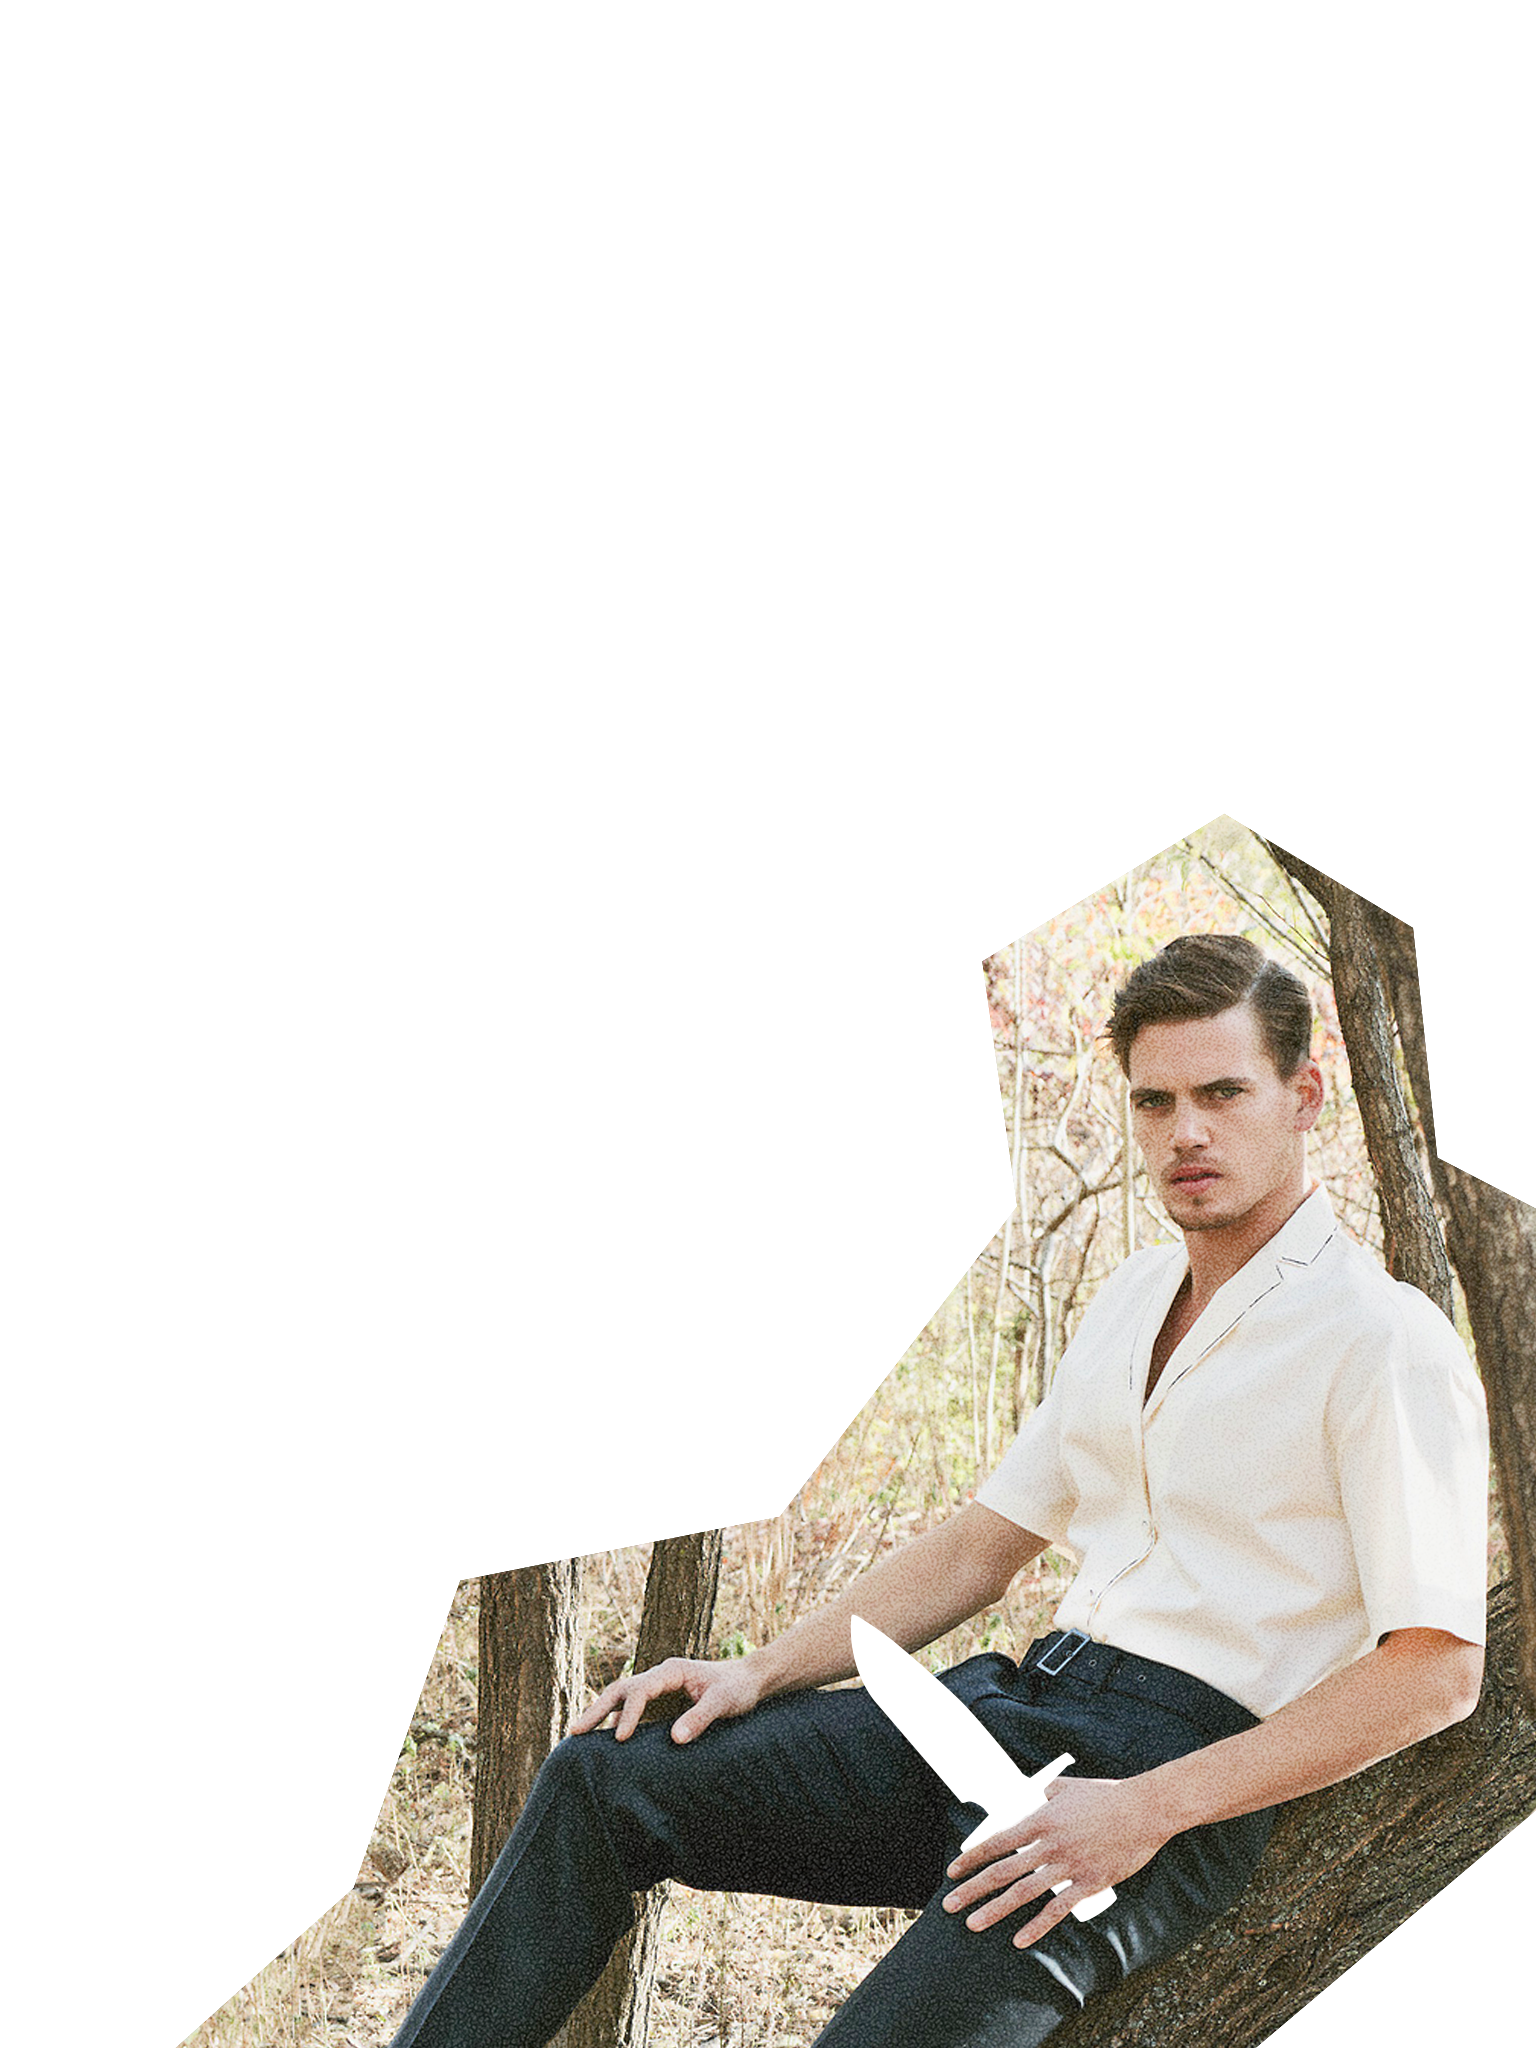
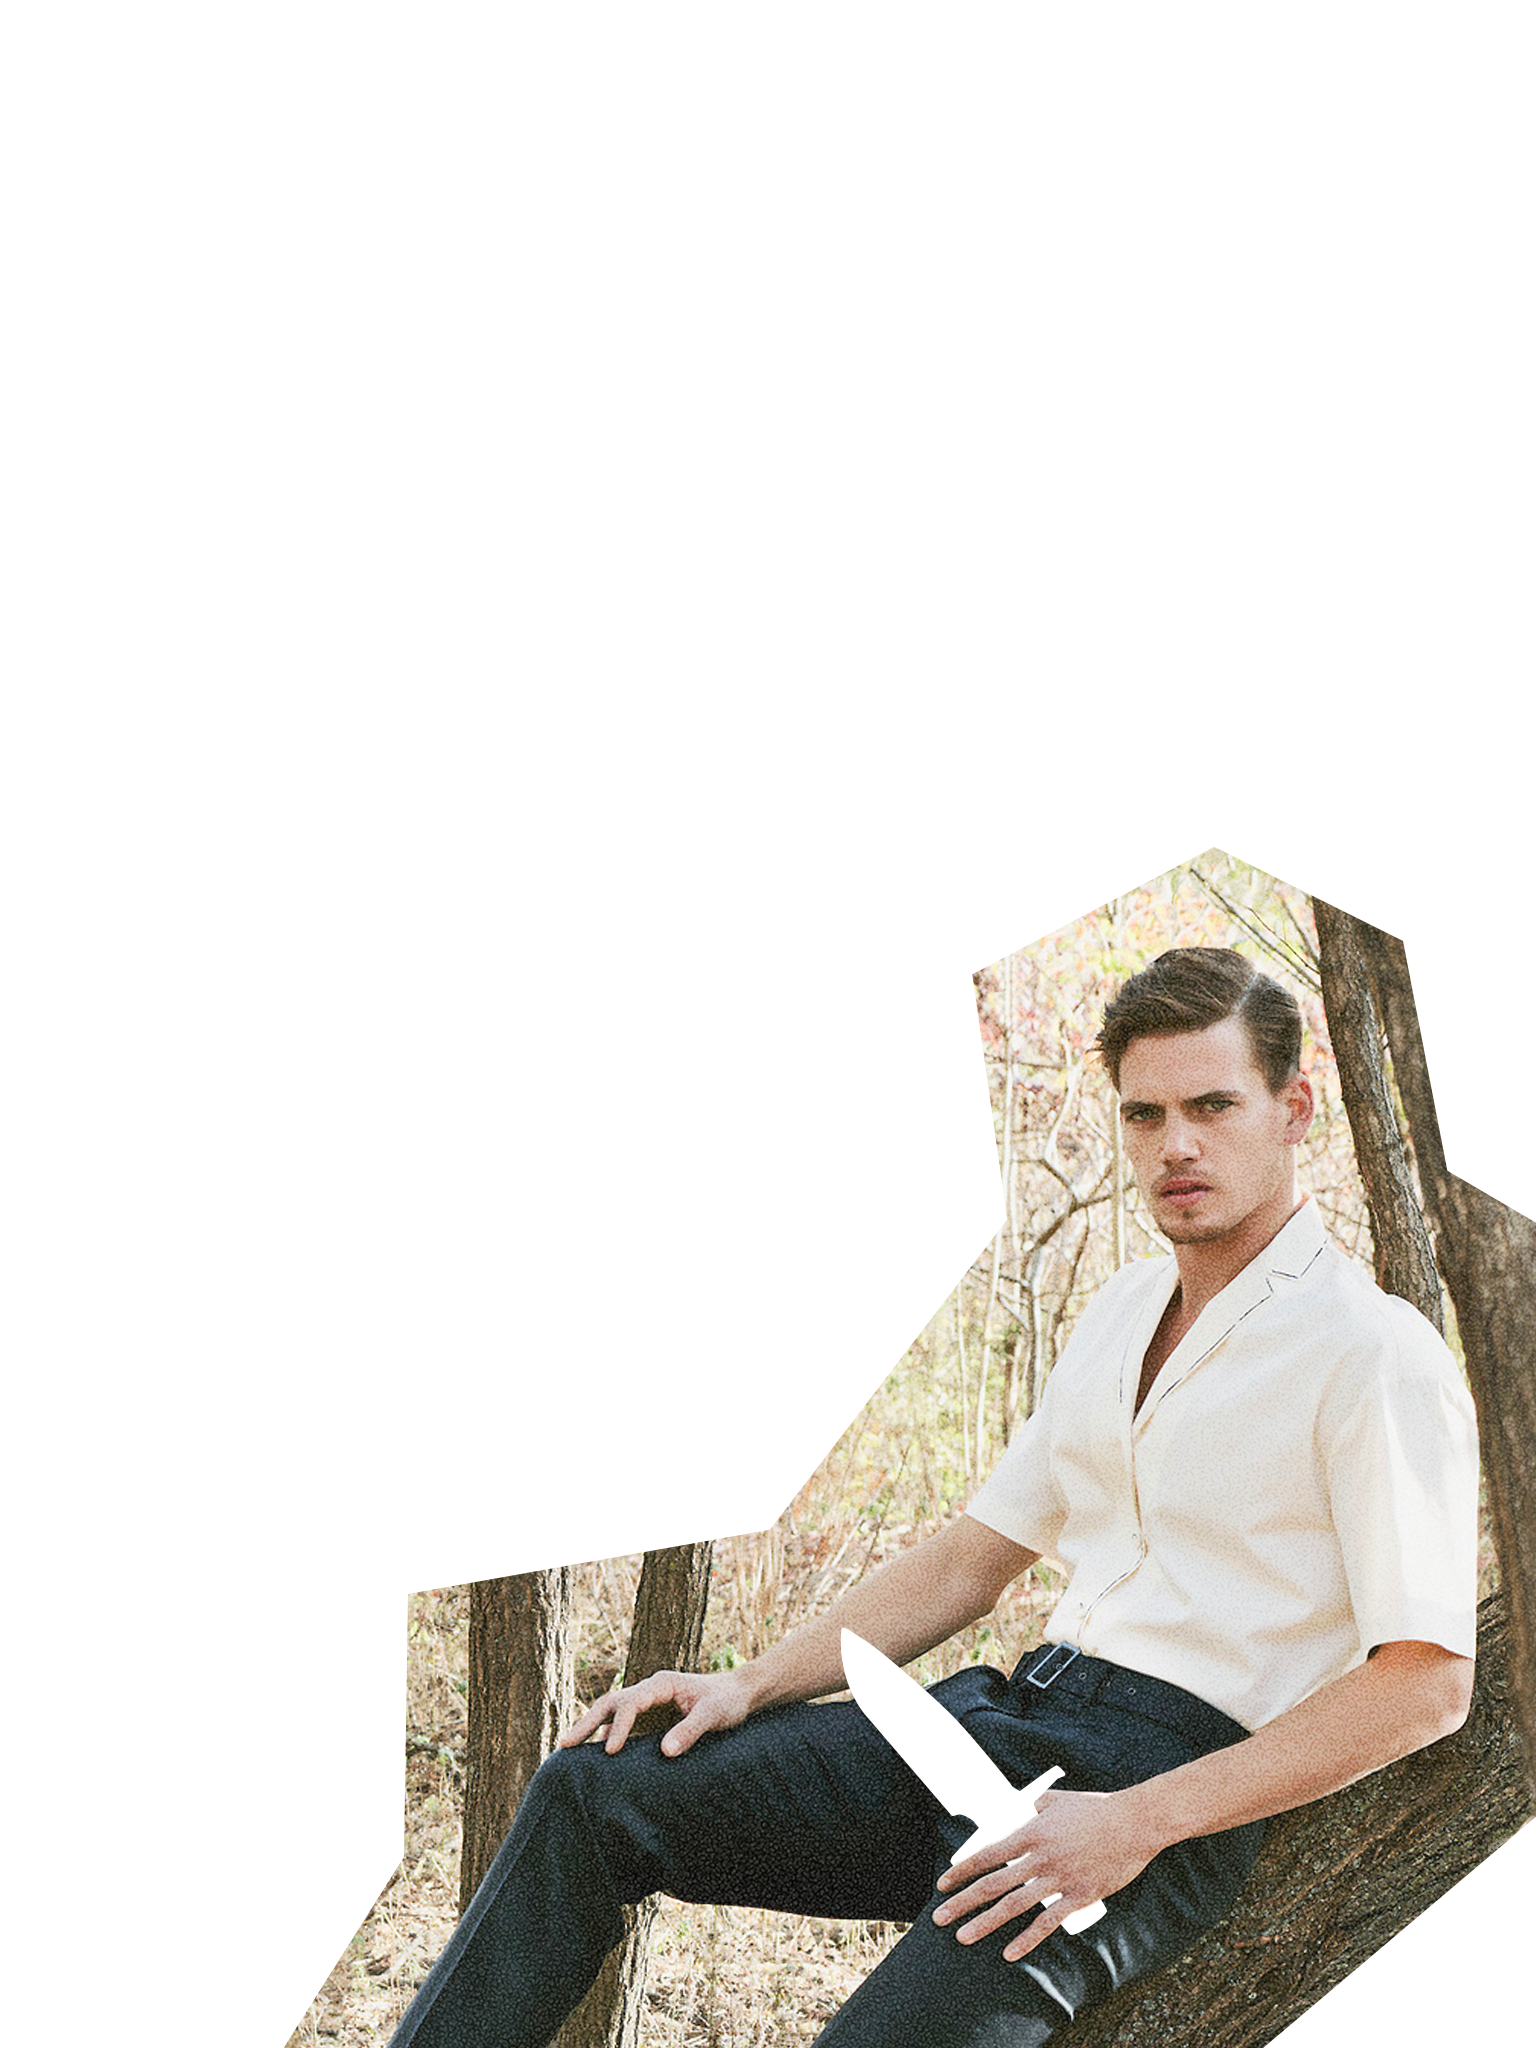
All tweaks

Changed region(s): [[0.125, 0.375, 1.0, 1.0]]

diff --git a/styles/main.css b/styles/main.css
@@ -184,7 +184,7 @@ h2 { font-size: 5em; }
 #begin h2 { top: 120px; left: 60px; -webkit-transform-origin: 0 0; transform-origin: 0 0; }
 #begin .cutout { -webkit-transform: rotate(0deg); transform: rotate(0deg); -webkit-transform-origin: 0 0; transform-origin: 0 0; top: -70px; }
 #begin .icon { position: absolute; top: 560px; right: 56px; }
-#begin #instructions { width: 600px; left: 41px; top: 195px; opacity: 0; }
+#begin #instructions { width: 600px; left: 41px; top: 195px; opacity: 0; background-color: rgba(0, 0, 0, 0); }
 #begin #factoid02 { width: 670px; height: 32px; top: 164px; left: 0px; }
 #begin #factoid02 p { padding-top: 72px; margin-left: 36px; }
 #begin .history { width: 615px; left: 42px; top: 195px; /*     p:first-child {background-color: #fff} */ }
@@ -192,36 +192,37 @@ h2 { font-size: 5em; }
 #snowwhite {   /*
 .svg-draw { position: absolute; top: 720px; }
 */ }
-#snowwhite h2 { width: 600px; top: 682px; left: 60px; -webkit-transform-origin: 0 0; transform-origin: 0 0; -webkit-transform: rotate(-90deg); transform: rotate(-90deg); }
+#snowwhite h2 { width: 600px; top: 686px; left: 55px; -webkit-transform-origin: 0 0; transform-origin: 0 0; -webkit-transform: rotate(-90deg); transform: rotate(-90deg); }
 #snowwhite .icon { position: absolute; top: 342px; right: 14px; }
-#snowwhite #factoid03 { width: 416px; height: 32px; top: 215px; right: 0px; }
-#snowwhite .hideshow-text { width: 520px; left: 149px; top: 562px; }
+#snowwhite #factoid03 { width: 436px; height: 32px; top: 170px; right: 0px; }
+#snowwhite .hideshow-text { width: 530px; left: 20px; top: 562px; }
 
 #queen { /* #drag2 { position: absolute; top:780px; left:70px; width:580px; img { -webkit-transform: rotate(-15deg); display: block; }
 */ }
-#queen h2 { width: 500px; top: 82px; left: 256px; left: 310px; top: 96px; left: 208px; }
-#queen .icon { position: absolute; top: 770px; left: 90px; top: 690px; left: 495px; width: 580px; }
+#queen h2 { width: 500px; top: 82px; left: 256px; left: 350px; top: 84px; left: 226px; }
+#queen .icon { position: absolute; top: 770px; left: 90px; top: 670px; left: 475px; width: 580px; }
 #queen .icon svg { -webkit-transform: rotate(-36deg); display: block; }
 #queen #factoid04 { width: 32px; height: 260px; top: 488px; left: 0px; }
 #queen #factoid04 p { width: 320px; }
 #queen .hideshow-text { width: 680px; left: 59px; top: 400px; }
 
-#huntsman h2 { width: 700px; top: 103px; left: 60px; }
-#huntsman .icon { position: absolute; top: 642px; left: 270px; }
-#huntsman #factoid05 { width: 395px; height: 32px; top: 312px; left: 0px; }
-#huntsman .hideshow-text { width: 500px; left: 44px; top: 450px; }
+#huntsman h2 { width: 650px; top: 103px; left: 60px; }
+#huntsman .icon { position: absolute; top: 644px; left: 267px; }
+#huntsman #factoid05 { width: 386px; height: 32px; top: 312px; left: 0px; }
+#huntsman .hideshow-text { width: 500px; left: 12px; left: 90px; top: 404px; }
 
-#dwarves h2 { width: 600px; top: 309px; left: 300px; -webkit-transform: rotate(90deg); }
-#dwarves .icon { position: absolute; top: 516px; left: 172px; }
-#dwarves #factoid06 { width: 32px; height: 436px; height: 411px; top: 98px; right: 0px; }
-#dwarves #factoid06 p { width: 360px; }
-#dwarves .hideshow-text { width: 620px; left: 133px; top: 650px; }
+#dwarves h2 {     /*
+width: 600px; top:309px; left: 300px; -webkit-transform: rotate(90deg);
+*/ width: 600px; top: 669px; left: 180px; }
+#dwarves .icon { position: absolute; top: 516px; left: 172px; top: 9px; left: 500px; }
+#dwarves #factoid06 { width: 32px; height: 405px; top: 182px; left: 0px; /* p {width:360px} */ }
+#dwarves .hideshow-text { width: 620px; left: 133px; top: 650px; width: 654px; left: 12px; top: 35px; }
 
 #king h2 { width: 400px; top: 125px; left: 178px; text-align: center; }
 #king h2.second { top: 214px; left: 188px; }
 #king .icon { position: absolute; top: 461px; left: 34.5%; }
-#king #factoid07 { width: 50%; height: 32px; top: 154px; left: 25%; }
-#king #factoid07 p { padding-top: 180px; }
+#king #factoid07 { width: 65%; left: 17.5%; width: 57%; left: 21.5%; height: 32px; top: 154px; }
+#king #factoid07 p { margin: 170px 20px 0 10px; }
 #king .hideshow-text { width: 740px; left: 20px; top: 40px; }
 
 #sin h2 { top: 570px; left: -116px; -webkit-transform: rotate(-90deg); }

diff --git a/styles/_layout.scss b/styles/_layout.scss
@@ -65,6 +65,7 @@
     left: 41px;
     top:195px;
     opacity: 0;
+    background-color: rgba(0,0,0,0);
     }     
   #factoid02 {
     width: 670px;
@@ -93,8 +94,8 @@
 */
   h2 {    
     width: 600px;
-    top:682px;
-    left: 60px;
+    top:686px;
+    left: 55px;
   	-webkit-transform-origin:0 0;
   	transform-origin:0 0;
     -webkit-transform:rotate(-90deg);
@@ -106,14 +107,14 @@
     right:14px;
     }       
   #factoid03 {
-    width: 416px;
+    width: 436px;
     height: 32px;
-    top: 215px;
+    top: 170px;
     right: 0px;
     }   
   .hideshow-text {
-    width: 520px;
-    left: 149px;
+    width: 530px;
+    left: 20px;
     top: 562px;
    }
   }
@@ -123,9 +124,9 @@
     width: 500px;
     top:82px;
     left: 256px;
-    left: 310px;
-    top: 96px;
-    left: 208px;
+    left: 350px;
+    top: 84px;
+    left: 226px;
   	}  	
 /*
   #drag2 {
@@ -142,8 +143,8 @@
     position: absolute;
     top:770px;
     left:90px;
-    top:690px;
-    left:495px;
+    top:670px;
+    left:475px;
     width:580px;
     svg {
       -webkit-transform: rotate(-36deg);
@@ -166,52 +167,62 @@
   
 #huntsman {  
   h2 {    
-    width: 700px;
+    width: 650px;
     top:103px;
     left: 60px;
     }
   .icon {
     position: absolute;
-    top:642px;
-    left:270px;
+    top:644px;
+    left:267px;
     }       
   #factoid05 {
-    width: 395px;
+    width: 386px;
     height:32px;
     top: 312px;
     left: 0px;
     }
   .hideshow-text {
     width: 500px;
-    left: 44px;
-    top:450px;
+    left: 12px;
+    left: 90px;
+    top:404px;
    } 
   }
   
 #dwarves {    
   h2 {    
-    width: 600px;
+    /*
+width: 600px;
     top:309px;
     left: 300px;
     -webkit-transform: rotate(90deg);
+*/
+    width: 600px;
+    top: 669px;
+    left: 180px;
   	}  	
   .icon {
     position: absolute;
     top:516px;
     left:172px;
+    top:9px;
+    left:500px;
     }   
   #factoid06 {
     width: 32px;
-    height: 436px;
-    height: 411px;
-    top: 98px;
-    right: 0px;
-    p {width:360px}
+    height: 405px;
+    top: 182px;
+    left: 0px;
+    /* p {width:360px} */
     }
   .hideshow-text {
     width: 620px;
     left: 133px;
     top:650px;
+    width: 654px;
+    left: 12px;
+    top:35px;
    } 
   }
 
@@ -232,11 +243,13 @@
     left:34.5%;
     }       
   #factoid07 {
-    width: 50%;
+    width: 65%;
+    left: 17.5%;
+    width: 57%;
+    left: 21.5%;
     height:32px;
     top: 154px;
-    left: 25%;
-    p {padding-top: 180px;}
+    p {margin: 170px 20px 0 10px;}
     } 
   .hideshow-text {
     width: 740px;

diff --git a/begin.html b/begin.html
@@ -53,7 +53,7 @@
         <div class="hideshow history" style="display: none">
         <p>When you think of Snow White, you probably picture the film that started the Disney empire. The tale was first published by Jacob and Wilhelm Grimm in their 1812 book, <i>Kinder-und Hausmaerchen</i>, or <i>Tales of Children and the Home</i>.</p>
         <p>The brothers were not writing for children; they were academic linguists, interested in preserving German language and culture and in strengthening the German identity. They set out to collect German oral traditions and capture them for the ages. Along with the old German words themselves, the brothers felt that a lot of traditional values lay in the stories they recorded.</p>
-        <p>They may have been right, but this story is not uniquely German. Versions of the story appear in Scotland, Ireland, France, Spain, Portugal, Italy, Hungary, Romania, Albania, Greece, Morocco, Algeria, Libya, West Africa, Gabon, Angola and Mozambique. Details vary, but the tale of a young beauty, a jealous older woman, exile, magical poisoning, and a long coma are universal.</p>
+        <p>They may have been right, but this story is not uniquely German. Versions of the story appear all over the globe: Scotland, Ireland, France, Spain, Portugal, Italy, Hungary, Romania, Albania, Greece, Morocco, Algeria, Libya, West Africa, Gabon, Angola and Mozambique, to name a few. Details vary, but the tale of a young beauty, a jealous older woman, exile, magical poisoning, and a long coma are universal.</p>
         </div>
       </div>
     
@@ -201,11 +201,9 @@ var s = skrollr.init({
 
 
 <!-- Livereload REMOVE BEFORE LAUNCH ---------------------------->	
-<!--
 <script>
   document.write('<script src="http://' + (location.host || 'localhost').split(':')[0] + ':35729/livereload.js?snipver=1"></' + 'script>')
 </script>
--->
 	
 </body>
 </html>

diff --git a/dwarves.html b/dwarves.html
@@ -29,7 +29,7 @@
     data-500="opacity:1;">
         <div class="hideshow"></div>
         <div class="hideshow history" style="display: none">
-          <p>Other versions of the story cast seven robbers, gypsies, eunuchs or other "strange people" in this role; they provide a safe, non-sexualized hideout where Snow White spends her exile more as an indentured servant than a cherished guest. Disney was the first to sweeten these outsiders, giving the Dwarves individual names and personalities.</p>
+          <p>Disney was the first to sweeten these outsiders, giving the Dwarves individual names and personalities. Snow White spends her exile more as an indentured servant than a cherished guest, her beauty having no power over these men. Other versions of the story cast seven robbers, gypsies, eunuchs or other &ldquo;strange people&rdquo; in place of the Dwarves, but they most often treat her as an outsider herself.</p>
         </div>
       </div>      
 
@@ -71,7 +71,7 @@
   <div id="factoid06" class="factoid hide"    
     data-0="opacity:1;"
     data-500="opacity:1;">
-    <p>They are uncivilized outcasts operating outside society's rules.</p>
+    <p>They are uncivilized outcasts operating outside society's rules, having little regard for Snow White's beauty or status.</p>
   </div>       
           
   <div class="page-nav"
@@ -179,11 +179,9 @@ var s = skrollr.init({
 
 
 <!-- Livereload REMOVE BEFORE LAUNCH ---------------------------->	
-<!--
 <script>
   document.write('<script src="http://' + (location.host || 'localhost').split(':')[0] + ':35729/livereload.js?snipver=1"></' + 'script>')
 </script>
--->
 	
 </body>
 </html>

diff --git a/snowwhite.html b/snowwhite.html
@@ -22,7 +22,7 @@
   
     <img class="cutout back" src="img/snowwhite.png"      
       data-0="top:150px"
-      data-500="top:-74px">
+      data-500="top:-84px">
 
 
 <!--
@@ -152,7 +152,7 @@
   $(document).ready(function(){
     $("#factoid03").click(function(){
       if($(this).hasClass('hide')) {
-        $(this).animate({height:222},200).removeClass('hide');
+        $(this).animate({height:270},200).removeClass('hide');
       } else { 
         $(this).animate({height:32},200).addClass('hide');
       }
@@ -190,7 +190,8 @@ var s = skrollr.init({
 
 
 <!-- Livereload REMOVE BEFORE LAUNCH ---------------------------->	
-<!--<script>
+<!--
+<script>
   document.write('<script src="http://' + (location.host || 'localhost').split(':')[0] + ':35729/livereload.js?snipver=1"></' + 'script>')
 </script>
 -->

diff --git a/king.html b/king.html
@@ -48,7 +48,7 @@
   <div id="factoid07" class="factoid hide"    
     data-0="opacity:1;"
     data-500="opacity:1;">
-    <p> You would think he might notice that his wife is psychotic and his daughter is missing.</p>
+    <p> You would think he might notice that his wife is psychotic and his daughter has gone missing.</p>
     </div>
     
   <div id="idea07" class="hideshow-text"

diff --git a/huntsman.html b/huntsman.html
@@ -233,11 +233,9 @@ var s = skrollr.init({
 
 
 <!-- Livereload REMOVE BEFORE LAUNCH ---------------------------->	
-<!--
 <script>
   document.write('<script src="http://' + (location.host || 'localhost').split(':')[0] + ':35729/livereload.js?snipver=1"></' + 'script>')
 </script>
--->
 	
 </body>
 </html>
